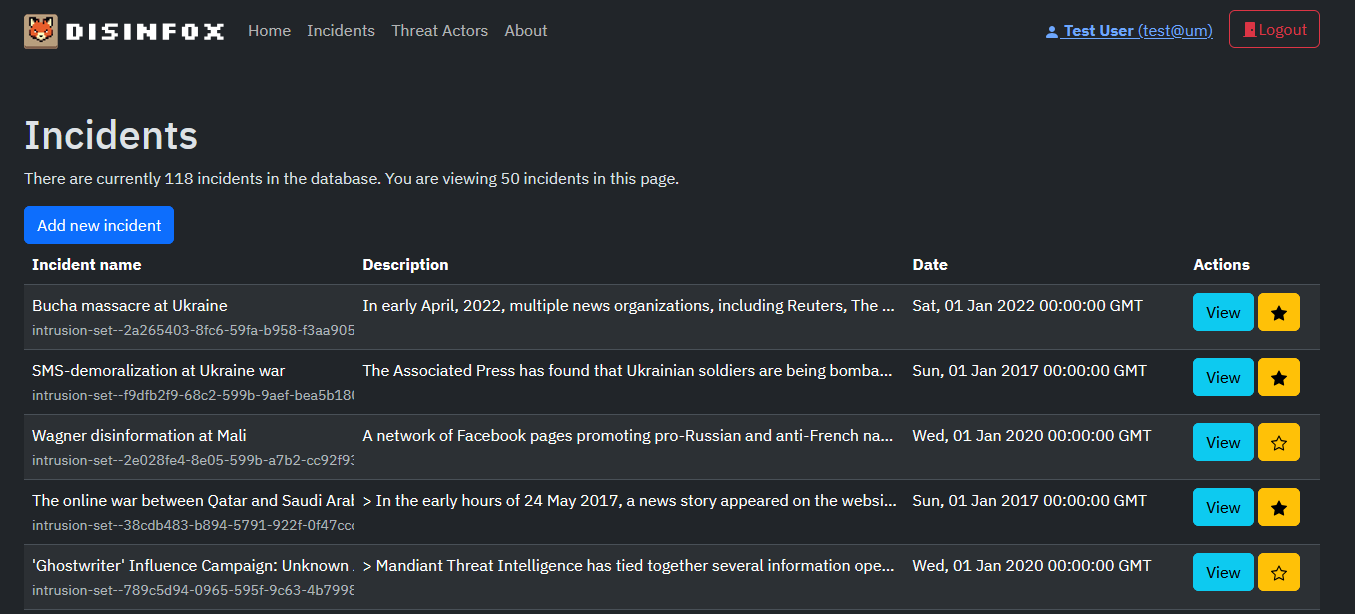
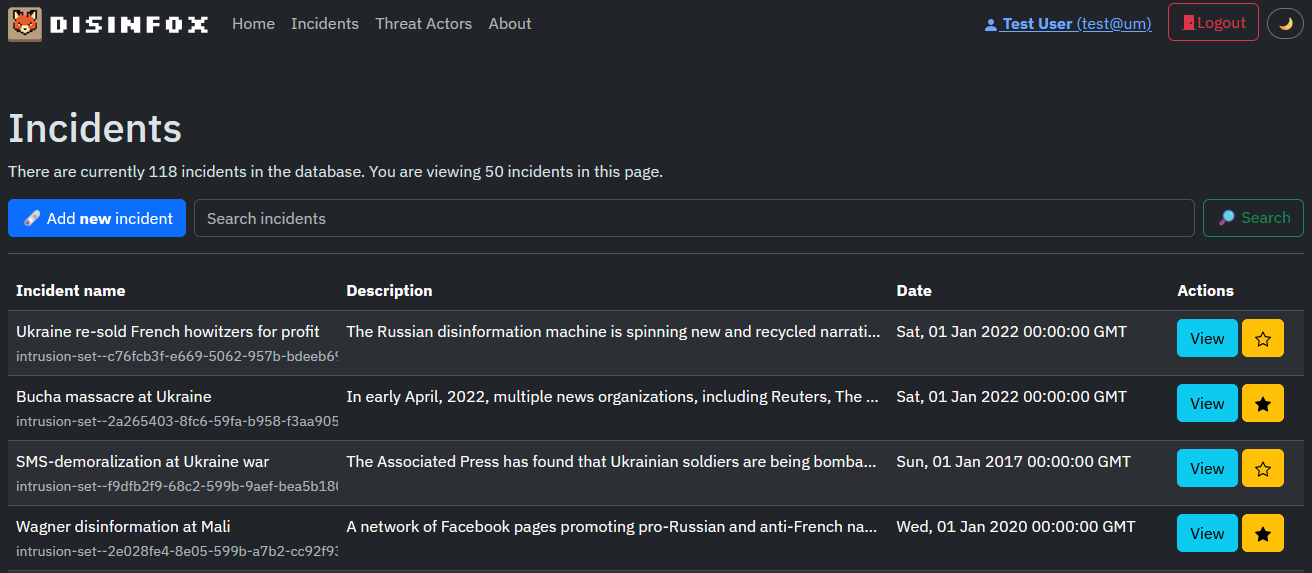
added search bar

diff --git a/frontend/templates/incidents.html b/frontend/templates/incidents.html
@@ -5,61 +5,72 @@
 <h1>Incidents</h1>
 <p> There are currently {{ total_incidents }} incidents in the database. You are viewing {{ incidents|length }}
     incidents in this page.</p>
-<a href="{{ url_for('new_incident') }}" class="btn btn-primary">Add new incident</a>
+    <div class="d-flex flex-column flex-md-row align-items-center gap-2">
 
+        <a href="{{ url_for('new_incident') }}" class="btn btn-primary flex-shrink-0">🗞 Add <b>new</b> incident</a>
+
+        <form action="{{ url_for('search_incidents') }}" method="GET" class="d-flex flex-grow-1">
+            <input class="form-control me-2 flex-grow-1" type="search" placeholder="Search incidents" aria-label="Search" name="query">
+            <button class="btn btn-outline-success flex-shrink-0" type="submit">🔎 Search</button>
+        </form>
+    
+    </div>
+    
+    
+    <hr>    
 <!-- Table listing of incidents -->
-<div class="table-responsive">
-<table class="table table-striped">
-    <thead>
-        <tr>
-            <th scope="col">Incident name</th>
-            <th scope="col">Description</th>
-            <th scope="col">Date</th>
-            <th scope="col">Actions</th>
-        </tr>
-    </thead>
-    <tbody>
-        {% for incident in incidents %}
-        <tr>
-            <td class="text-truncate name" style="word-wrap: break-word; max-width: 300px;">
-                <div>
-                    {{ incident.name }}
-                </div>
-                <div>
-                    <small class="text-muted">
-                        {{ incident.id }}
-                    </small>
-            </td>
-            <!-- We just show the first 200 characters of the description -->
-            <td class="text-truncate description" style="word-wrap: break-word; min-width: 20px; max-width: 500px;">
-                {{ incident.description }}
-            </td>
-            <td>{{ incident.first_seen }}</td>
-            <td>
-                <!-- Button to trigger modal -->
-                <a href="{{ url_for('incident', incident_id=incident.id) }}" class="btn btn-info">View</a>
-                <!-- Favorite button with a star icon filled and unfilled depending on the favorite status -->
-                <button class="btn btn-warning" onclick="toggleFavorite('{{ incident.id }}')"
-                    id="favoriteBtn-{{ incident.id }}">
-                    {% if incident.favorited %}
-                    <svg xmlns="http://www.w3.org/2000/svg" width="16" height="16" fill="currentColor"
-                        class="bi bi-star-fill" viewBox="0 0 16 16">
-                        <path
-                            d="M3.612 15.443c-.386.198-.824-.149-.746-.592l.83-4.73L.173 6.765c-.329-.314-.158-.888.283-.95l4.898-.696L7.538.792c.197-.39.73-.39.927 0l2.184 4.327 4.898.696c.441.062.612.636.282.95l-3.522 3.356.83 4.73c.078.443-.36.79-.746.592L8 13.187l-4.389 2.256z" />
-                    </svg>
-                    {% else %}
-                    <svg xmlns="http://www.w3.org/2000/svg" width="16" height="16" fill="currentColor"
-                        class="bi bi-star" viewBox="0 0 16 16">
-                        <path
-                            d="M2.866 14.85c-.078.444.36.791.746.593l4.39-2.256 4.389 2.256c.386.198.824-.149.746-.592l-.83-4.73 3.522-3.356c.33-.314.16-.888-.282-.95l-4.898-.696L8.465.792a.513.513 0 0 0-.927 0L5.354 5.12l-4.898.696c-.441.062-.612.636-.283.95l3.523 3.356-.83 4.73zm4.905-2.767-3.686 1.894.694-3.957a.56.56 0 0 0-.163-.505L1.71 6.745l4.052-.576a.53.53 0 0 0 .393-.288L8 2.223l1.847 3.658a.53.53 0 0 0 .393.288l4.052.575-2.906 2.77a.56.56 0 0 0-.163.506l.694 3.957-3.686-1.894a.5.5 0 0 0-.461 0z" />
-                    </svg>
-                    {% endif %}
-                </button>
-            </td>
-        </tr>
-        {% endfor %}
-    </tbody>
-</table>
+<div class="table-responsive mt-3">
+    <table class="table table-striped">
+        <thead>
+            <tr>
+                <th scope="col">Incident name</th>
+                <th scope="col">Description</th>
+                <th scope="col">Date</th>
+                <th scope="col">Actions</th>
+            </tr>
+        </thead>
+        <tbody>
+            {% for incident in incidents %}
+            <tr>
+                <td class="text-truncate name" style="word-wrap: break-word; max-width: 300px;">
+                    <div>
+                        {{ incident.name }}
+                    </div>
+                    <div>
+                        <small class="text-muted">
+                            {{ incident.id }}
+                        </small>
+                </td>
+                <!-- We just show the first 200 characters of the description -->
+                <td class="text-truncate description" style="word-wrap: break-word; min-width: 20px; max-width: 500px;">
+                    {{ incident.description }}
+                </td>
+                <td>{{ incident.first_seen }}</td>
+                <td>
+                    <!-- Button to trigger modal -->
+                    <a href="{{ url_for('incident', incident_id=incident.id) }}" class="btn btn-info">View</a>
+                    <!-- Favorite button with a star icon filled and unfilled depending on the favorite status -->
+                    <button class="btn btn-warning" onclick="toggleFavorite('{{ incident.id }}')"
+                        id="favoriteBtn-{{ incident.id }}">
+                        {% if incident.favorited %}
+                        <svg xmlns="http://www.w3.org/2000/svg" width="16" height="16" fill="currentColor"
+                            class="bi bi-star-fill" viewBox="0 0 16 16">
+                            <path
+                                d="M3.612 15.443c-.386.198-.824-.149-.746-.592l.83-4.73L.173 6.765c-.329-.314-.158-.888.283-.95l4.898-.696L7.538.792c.197-.39.73-.39.927 0l2.184 4.327 4.898.696c.441.062.612.636.282.95l-3.522 3.356.83 4.73c.078.443-.36.79-.746.592L8 13.187l-4.389 2.256z" />
+                        </svg>
+                        {% else %}
+                        <svg xmlns="http://www.w3.org/2000/svg" width="16" height="16" fill="currentColor"
+                            class="bi bi-star" viewBox="0 0 16 16">
+                            <path
+                                d="M2.866 14.85c-.078.444.36.791.746.593l4.39-2.256 4.389 2.256c.386.198.824-.149.746-.592l-.83-4.73 3.522-3.356c.33-.314.16-.888-.282-.95l-4.898-.696L8.465.792a.513.513 0 0 0-.927 0L5.354 5.12l-4.898.696c-.441.062-.612.636-.283.95l3.523 3.356-.83 4.73zm4.905-2.767-3.686 1.894.694-3.957a.56.56 0 0 0-.163-.505L1.71 6.745l4.052-.576a.53.53 0 0 0 .393-.288L8 2.223l1.847 3.658a.53.53 0 0 0 .393.288l4.052.575-2.906 2.77a.56.56 0 0 0-.163.506l.694 3.957-3.686-1.894a.5.5 0 0 0-.461 0z" />
+                        </svg>
+                        {% endif %}
+                    </button>
+                </td>
+            </tr>
+            {% endfor %}
+        </tbody>
+    </table>
 </div>
 <!-- Pagination, we have the actual page, max_selectable_pages and npages. 
         Here, we will have max_selectable_pages to click on, and npages in total.

diff --git a/frontend/templates/search.html b/frontend/templates/search.html
@@ -1,0 +1,79 @@
+{% extends "base.html" %}
+
+{% block content %}
+
+<h1>Incident search</h1>
+<p> There were {{ total_incidents }} incidents found in the database. You are viewing {{ incidents|length }}
+    incidents in this page.</p>
+
+<!-- Table listing of incidents -->
+<div class="table-responsive mt-3">
+    <table class="table table-striped">
+        <thead>
+            <tr>
+                <th scope="col">Incident name</th>
+                <th scope="col">Description</th>
+                <th scope="col">Date</th>
+                <th scope="col">Actions</th>
+            </tr>
+        </thead>
+        <tbody>
+            {% for incident in incidents %}
+            <tr>
+                <td class="text-truncate name" style="word-wrap: break-word; max-width: 300px;">
+                    <div>
+                        {{ incident.name }}
+                    </div>
+                    <div>
+                        <small class="text-muted">
+                            {{ incident.id }}
+                        </small>
+                </td>
+                <!-- We just show the first 200 characters of the description -->
+                <td class="text-truncate description" style="word-wrap: break-word; min-width: 20px; max-width: 500px;">
+                    {{ incident.description }}
+                </td>
+                <td>{{ incident.first_seen }}</td>
+                <td>
+                    <a href="{{ url_for('incident', incident_id=incident.id) }}" class="btn btn-info">View</a>
+                </td>
+            </tr>
+            {% endfor %}
+        </tbody>
+    </table>
+</div>
+
+<!-- Pagination, we have the actual page, max_selectable_pages and npages. 
+        Here, we will have max_selectable_pages to click on, and npages in total.
+        If max_selectable_pages-1 < npages, we will have a "..." to show that there are more pages. -->
+        <nav aria-label="Page navigation">
+            <ul class="pagination justify-content-center">
+                {% if page > 1 %}
+                <li class="page-item">
+                    <a class="page-link" href="{{ url_for('search_incidents', page=page-1, query=query) }}">Previous</a>
+                </li>
+                {% endif %}
+                {% for p in range(1, npages+1) %}
+                {% if p == page %}
+                <li class="page-item active" aria-current="page">
+                    <span class="page-link">{{ p }}<span class="visually-hidden">(current)</span></span>
+                </li>
+                {% elif p == 1 or p == npages or (p >= page - max_selectable_pages//2 and p <= page + max_selectable_pages//2)
+                    %} <li class="page-item">
+                    <a class="page-link" href="{{ url_for('search_incidents', page=p, query=query) }}">{{ p }}</a>
+                    </li>
+                    {% elif p == 2 or p == npages-1 %}
+                    <li class="page-item">
+                        <span class="page-link">...</span>
+                    </li>
+                    {% endif %}
+                    {% endfor %}
+                    {% if page < npages %} <li class="page-item">
+                        <a class="page-link" href="{{ url_for('search_incidents', page=page+1, query=query) }}">Next</a>
+                        </li>
+                        {% endif %}
+            </ul>
+        </nav>
+
+{% endblock %}
+

diff --git a/backend/app.py b/backend/app.py
@@ -213,15 +213,15 @@ def get_incidents():
     sort_field = request.args.get('sort', default=DEFAULT_SORT_FIELD, type=str)
     sort_order = request.args.get('order', default=DEFAULT_SORT_ORDER, type=str)
     newer_than = request.args.get('newer_than', default=None, type=str)
+    query = request.args.get('q', default="", type=str)
 
-
-    # Fetch the incidents from the database
+    # query searching the word in the name and description fields
+    query_filter = {"type": "intrusion-set", "$or": [{"name": {"$regex": query, "$options": "i"}}, {"description": {"$regex": query, "$options": "i"}}]}
     if newer_than:
-        total_incidents = stix2_objects.count_documents({"type": "intrusion-set", "modified": {"$gt": newer_than}})
-        incidents_cursor = stix2_objects.find({"type": "intrusion-set", "modified": {"$gt": newer_than}})
-    else:
-        total_incidents = stix2_objects.count_documents({"type": "intrusion-set"})
-        incidents_cursor = stix2_objects.find({"type": "intrusion-set"})
+        query_filter["modified"] = {"$gt": newer_than}
+    
+    total_incidents = stix2_objects.count_documents(query_filter)
+    incidents_cursor = stix2_objects.find(query_filter)
     
     incidents_cursor.sort(sort_field, -1 if sort_order == "desc" else 1)
     

diff --git a/frontend/app.py b/frontend/app.py
@@ -313,6 +313,22 @@ def remove_favorite(incident_id):
             return abort(500, description="Error deleting favorite")
     return redirect(url_for("profile"), code=302)
 
+
+@app.route("/search", methods=["GET"])
+def search_incidents():
+    query = request.args.get("query")
+    page = request.args.get("page", 1, type=int)
+    if not query:
+        return "No query", 400
+    response = requests.get(BACKEND_ROOT + "incidents", params={"q": query, "page": page, "limit": LISTING_LIMIT})
+    if response.status_code != 200:
+        return abort(500, description="Error searching")
+    incidents_response = response.json()
+    npages = incidents_response.get("total_incidents", 0) // incidents_response.get("limit", LISTING_LIMIT) + 1
+    total_incidents = incidents_response.get("total_incidents", 0)
+    return render_template("search.html", query=query,
+                            incidents=incidents_response.get("incidents", []),
+                            npages=npages, page=page, total_incidents=total_incidents, max_selectable_pages=MAX_INDIVIDUAL_SELECTABLE_PAGES)
 @app.route("/threat-actors/", methods=["GET", "POST"])
 #@login_required
 def threat_actors():

diff --git a/frontend/models.py b/frontend/models.py
@@ -4,9 +4,9 @@ from flask import session
 
 class Anonymous(AnonymousUserMixin):
     def __init__(self):
-        self.email = 'guest@example.org'
-        self.firstName = 'Nice'
-        self.lastName = 'Guest'
+        self.email = 'no-auth'
+        self.firstName = 'Guest'
+        self.lastName = 'User'
     def get_favourite_incidents(self):
         return session.get('favoriteIncidents', [])
     def add_favourite_incident(self, incident_id):

diff --git a/README.md b/README.md
@@ -72,7 +72,7 @@ Log in with the default credentials (if not modified):
 
 ### 📰 Incident management  
 
-The **Incidents** page provides a structured view of all reported disinformation incidents.  
+The **Incidents** page provides a structured view of all reported disinformation incidents and a search bar to quickly find specific incidents. 
 
 ![DISINFOX disinformation incident listing](imgs/listing.png)
 
